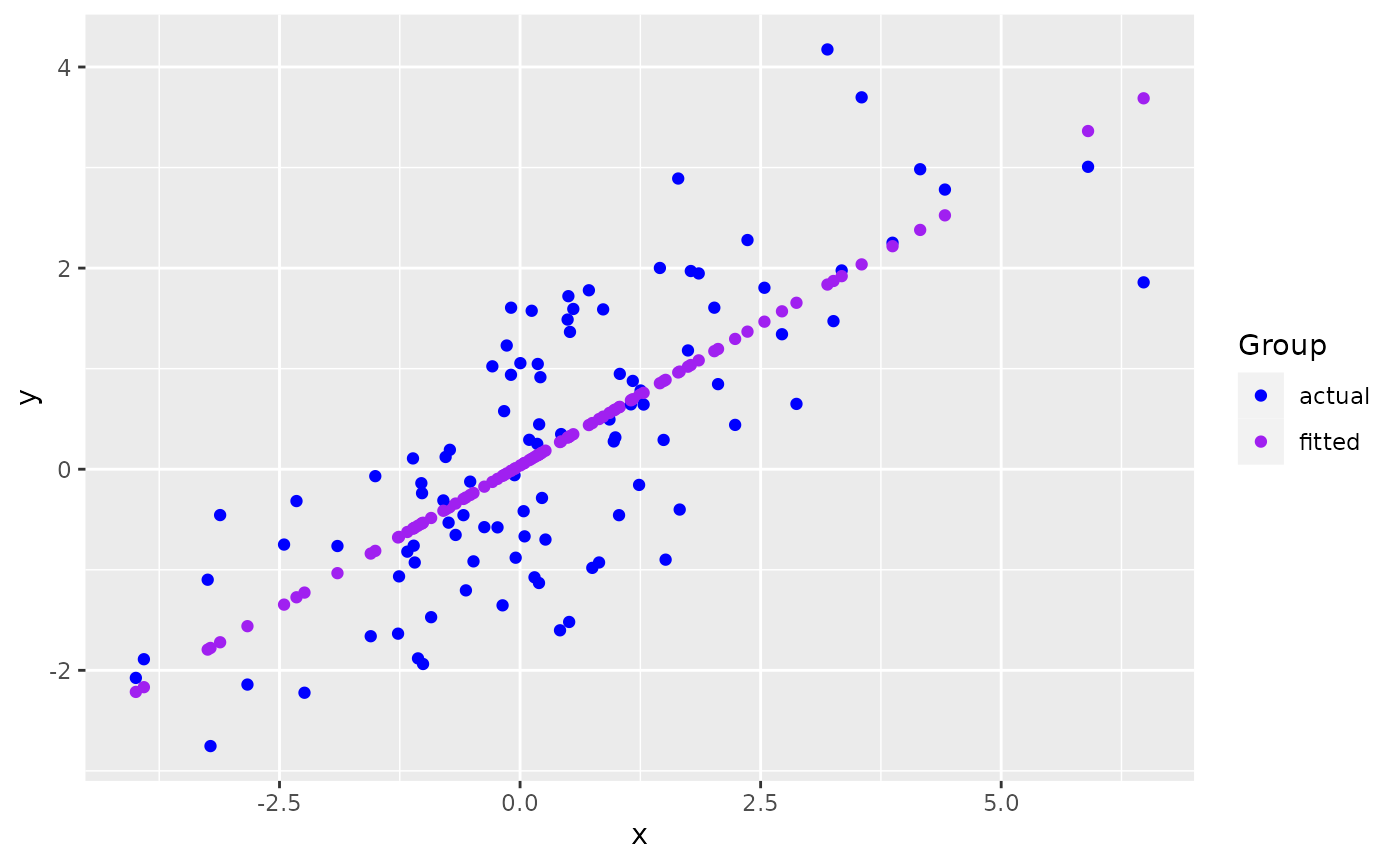
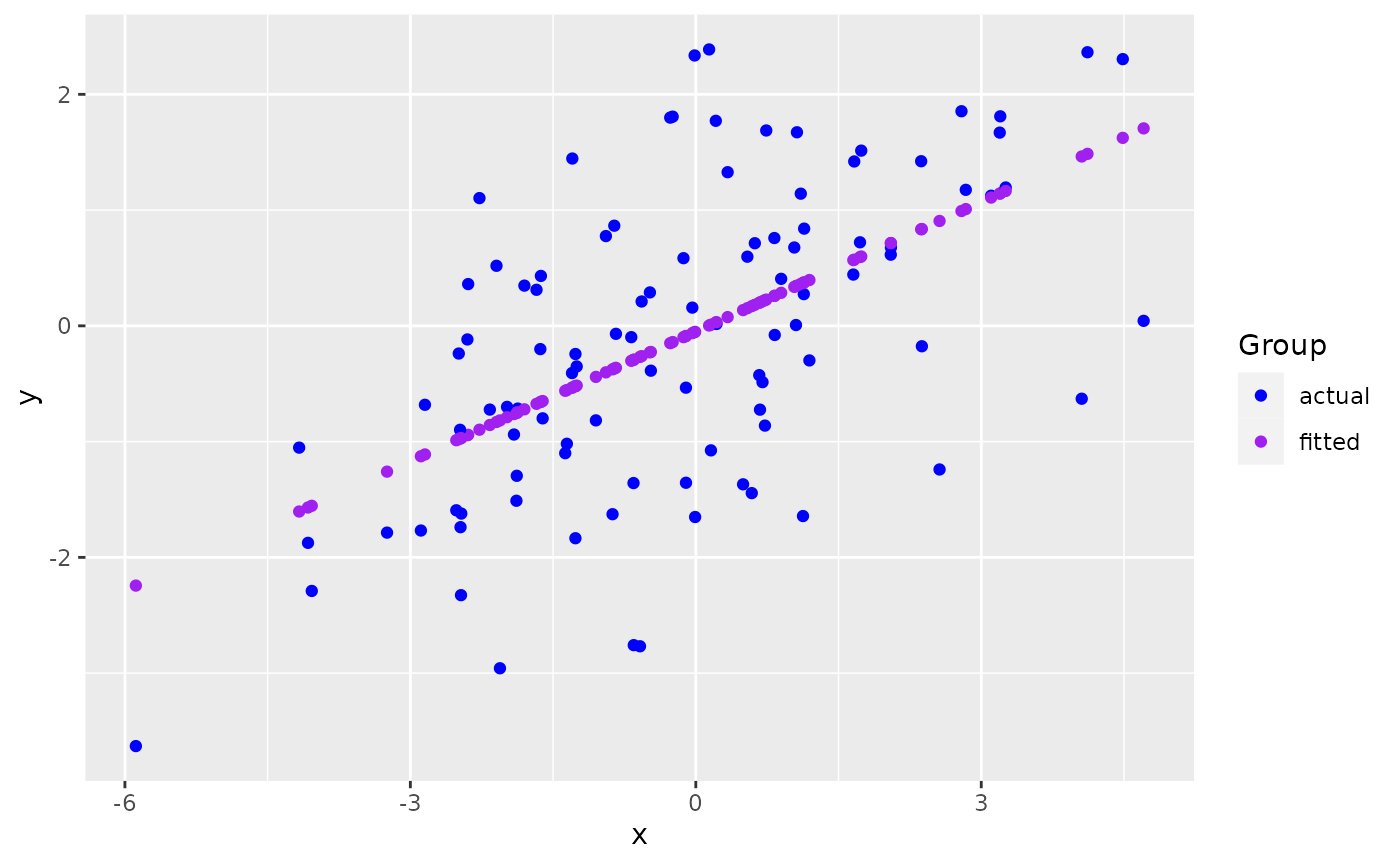
Built site for ggmatplot: 0.1.1@4decb4b

diff --git a/articles/ggmatplot.html b/articles/ggmatplot.html
@@ -103,8 +103,7 @@
 <span class="va">x</span> <span class="op">&lt;-</span> <span class="fu"><a href="https://rdrr.io/r/base/c.html" class="external-link">c</a></span><span class="op">(</span><span class="fu"><a href="https://rdrr.io/r/stats/Normal.html" class="external-link">rnorm</a></span><span class="op">(</span><span class="fl">100</span>, sd <span class="op">=</span> <span class="fl">2</span><span class="op">)</span><span class="op">)</span>
 
 <span class="fu"><a href="https://rdrr.io/r/utils/head.html" class="external-link">head</a></span><span class="op">(</span><span class="va">x</span><span class="op">)</span>
-<span class="co">#&gt; [1] -2.240342703  0.990179249  0.003176375  1.744999859  4.415252006</span>
-<span class="co">#&gt; [6]  1.036604535</span>
+<span class="co">#&gt; [1]  0.6669044  2.0506636 -0.8751025  0.2101028  1.1265714  0.1590892</span>
 
 <span class="co"># matrix z</span>
 <span class="va">y</span> <span class="op">&lt;-</span> <span class="va">x</span> <span class="op">*</span> <span class="fl">0.5</span> <span class="op">+</span> <span class="fu"><a href="https://rdrr.io/r/stats/Normal.html" class="external-link">rnorm</a></span><span class="op">(</span><span class="fl">100</span>, sd <span class="op">=</span> <span class="fl">1</span><span class="op">)</span>
@@ -114,12 +113,12 @@
 
 <span class="fu"><a href="https://rdrr.io/r/utils/head.html" class="external-link">head</a></span><span class="op">(</span><span class="va">z</span><span class="op">)</span>
 <span class="co">#&gt;       actual      fitted</span>
-<span class="co">#&gt; 1 -2.2228976 -1.22679576</span>
-<span class="co">#&gt; 2  0.3164453  0.59411653</span>
-<span class="co">#&gt; 3  1.0547918  0.03778362</span>
-<span class="co">#&gt; 4  1.1810804  1.01957785</span>
-<span class="co">#&gt; 5  2.7810329  2.52468910</span>
-<span class="co">#&gt; 6  0.9481198  0.62028455</span></code></pre></div>
+<span class="co">#&gt; 1 -0.4259083  0.19942262</span>
+<span class="co">#&gt; 2  0.6771384  0.71543376</span>
+<span class="co">#&gt; 3 -1.6270636 -0.37559993</span>
+<span class="co">#&gt; 4  1.7712603  0.02907889</span>
+<span class="co">#&gt; 5 -1.6431636  0.37083491</span>
+<span class="co">#&gt; 6 -1.0756780  0.01005566</span></code></pre></div>
 <p><code>ggmatplot</code> plots vector <code>x</code> against each column of matrix <code>z</code> using the default <code>plot_type = "point"</code>. This will be represented on the resulting plot as two groups, identified using different shapes and colors.</p>
 <div class="sourceCode" id="cb2"><pre class="downlit sourceCode r">
 <code class="sourceCode R"><span class="kw"><a href="https://rdrr.io/r/base/library.html" class="external-link">library</a></span><span class="op">(</span><span class="va"><a href="https://github.com/xuan-liang/ggmatplot" class="external-link">ggmatplot</a></span><span class="op">)</span>
